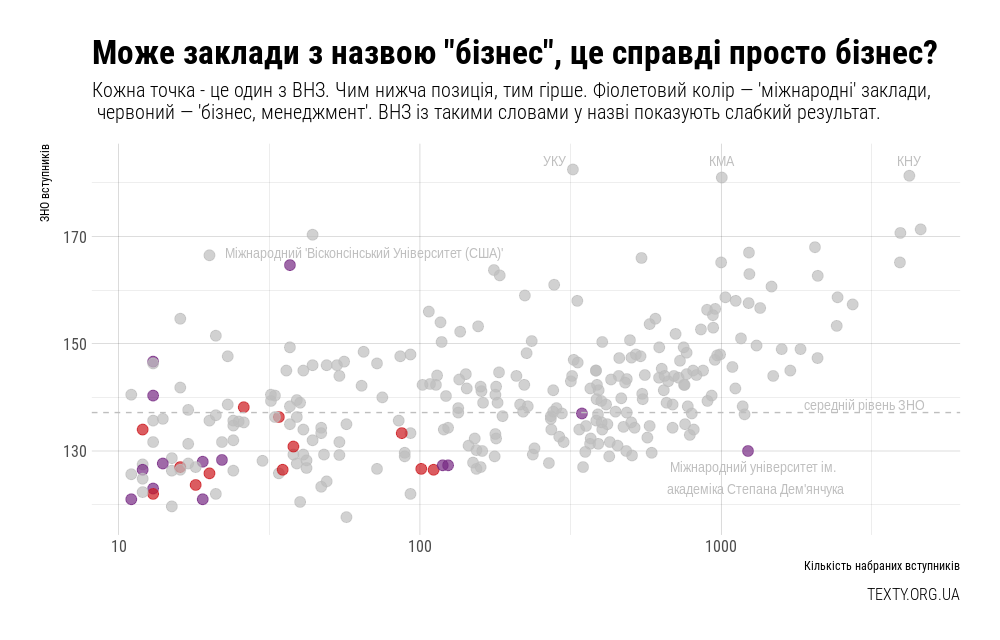
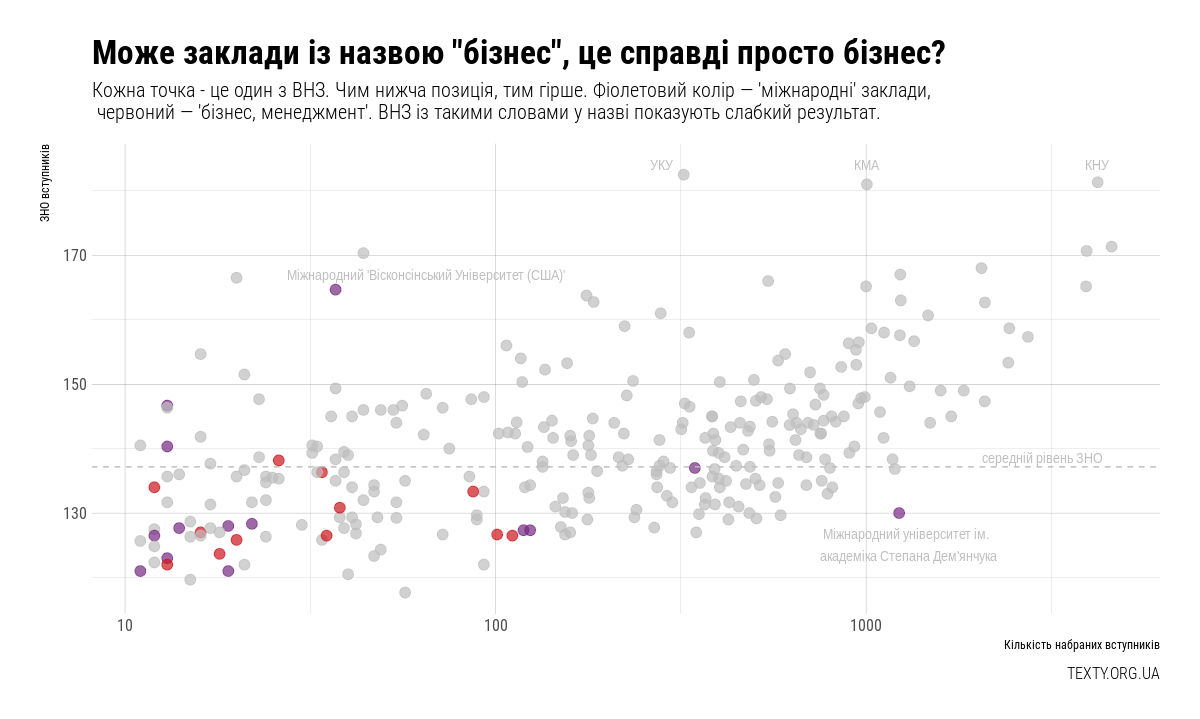
last one

diff --git a/index.html b/index.html
@@ -246,7 +246,7 @@
 <div class="container-fluid">
     <div class="row">
         <div class="col-xs-12 col-md-offset-1 col-md-10">
-            <img style="width:100%;" src="img/Rplot04.png">
+            <img style="width:100%; max-width: 1200px;" src="img/Rplot04.png">
         </div>
     </div>
 </div>
